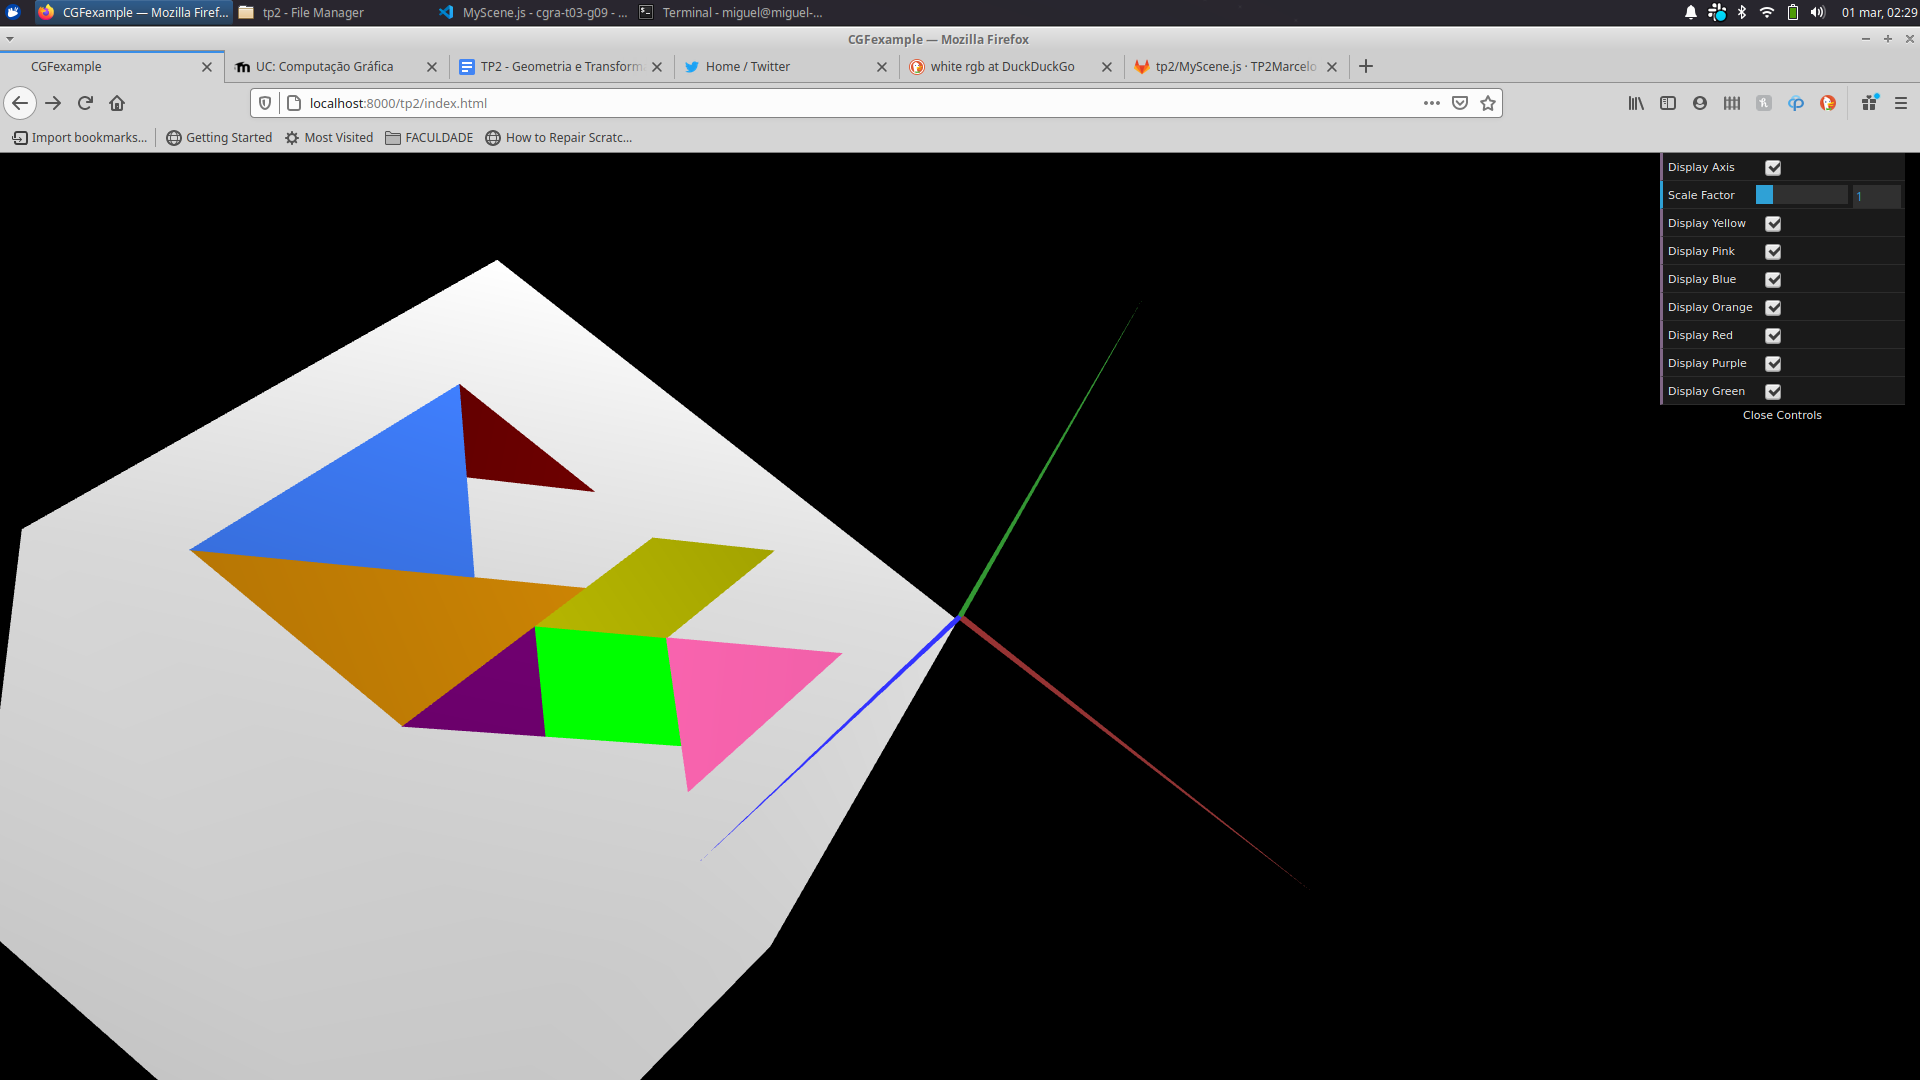
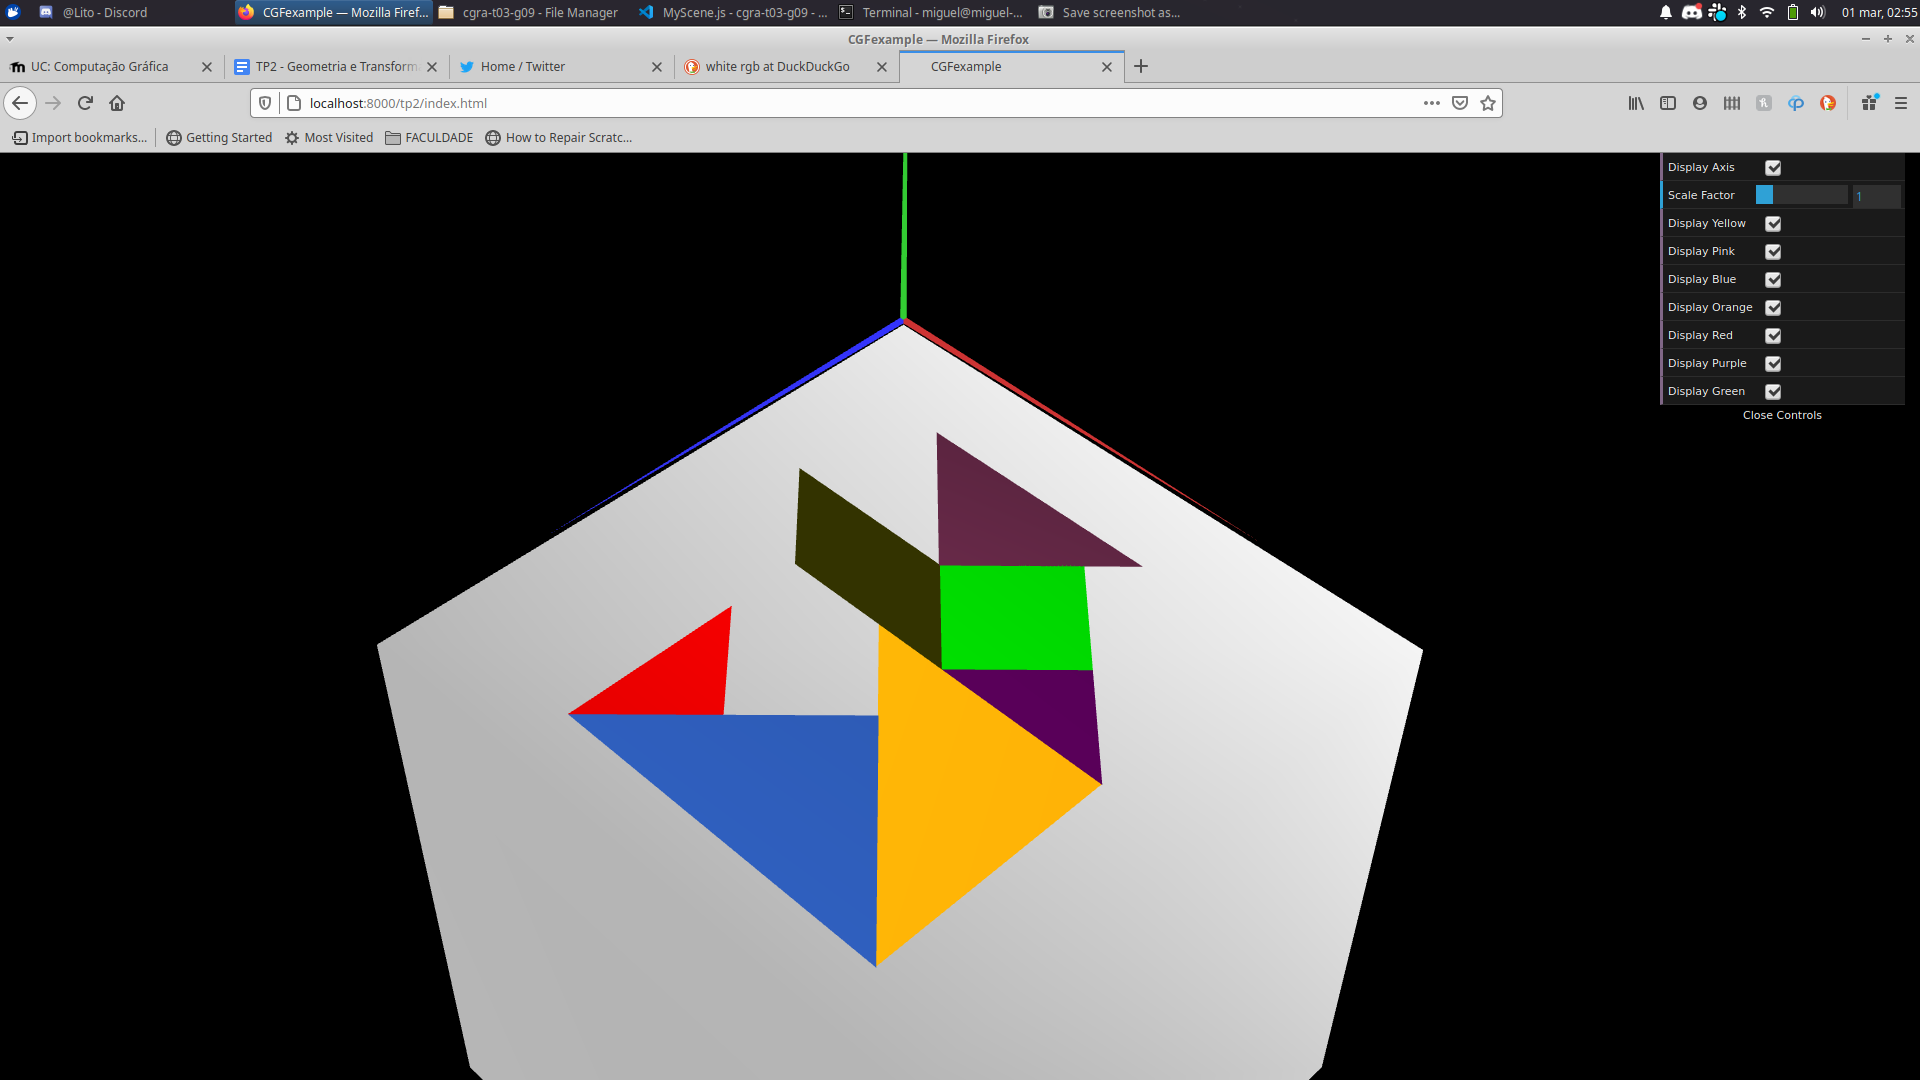
finished

diff --git a/tp2/MyScene.js b/tp2/MyScene.js
@@ -133,27 +133,27 @@ export class MyScene extends CGFscene {
     ];
     this.multMatrix(sca);
 
-/*     this.tangram.display();
+/*      this.tangram.display();
     this.pushMatrix();
     this.setWhiteAppearance();
     this.scale(7,7,7)
     this.translate(0,0,-0.6)
     this.cube.display();
-    this.popMatrix(); */
+    this.popMatrix();  */
 
-    /* this.pushMatrix()
-    this.translate(-3,0,4);
-    this.rotate(-Math.PI/2,0,0,1);
-    this.rotate(-Math.PI/2,0,1,0);
+     this.pushMatrix()
+    this.translate(4,0,3.5);
+    this.rotate(-Math.PI/2,1,0,0);
     this.tangram.display();
     this.popMatrix();
+    
     this.pushMatrix()
     this.scale(7,7,7);
-    this.translate(-0.5,-0.51,0.5);//-0.51 pq facilita a visualização(mas para estarem sobrepostos seria -0.5)
+    this.translate(0.5,-0.51,0.5);//-0.51 pq facilita a visualização(mas para estarem sobrepostos seria -0.5)
     this.setWhiteAppearance();
-    this.cube.display(); */
+    this.cube.display(); 
 
-    this.pushMatrix();
+/*     this.pushMatrix();
     this.translate(0,0,0.5);
     this.quad.display();
     this.popMatrix();
@@ -177,7 +177,7 @@ export class MyScene extends CGFscene {
     this.quad.display();
     this.translate(0,0,-1);
     this.quad.display();
-    this.popMatrix();
+    this.popMatrix(); */
 
     // ---- END Primitive drawing section
   }
